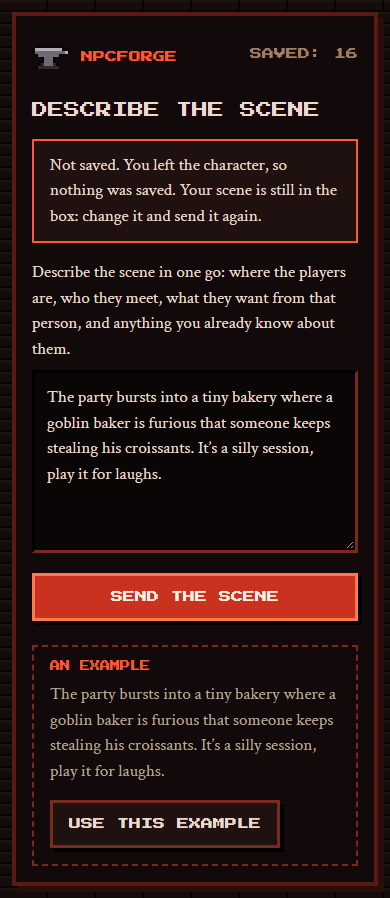
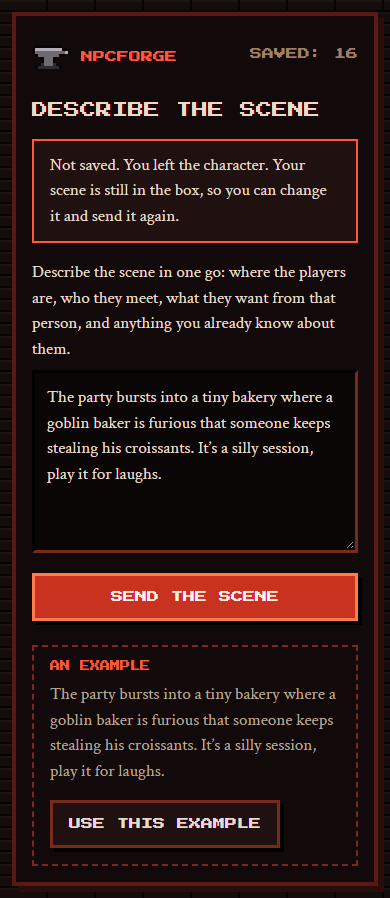
fix(web): the keep actions no longer half-follow the scroll, and plainer notices (epic 12, PR 3)
The side column is taller than the window, so `position: sticky` held
SAVE in view for the first half of the sheet only. The actions now stay
at the top of the side column. A brief that scrolls inside a sticky
column fails the contrast check, so that was not an option.

Changed region(s): [[0.1231, 0.1559, 0.8615, 0.2494]]

diff --git a/NpcForge.Web/src/Sheet.tsx b/NpcForge.Web/src/Sheet.tsx
@@ -7,7 +7,9 @@ import type { BriefEntry } from './api';
 // model's prose"; ADR-017 decision 4). The name comes from `name`, never from the text.
 //
 // `actions`, on the forge page, sit at the top of the side column above the brief: under the sheet
-// on a phone, and in view beside it at desktop width while the sheet scrolls.
+// on a phone, and beside the sheet's first lines at desktop width. They do not follow the scroll.
+// A side column taller than the window sticks for half the sheet only, and a brief that scrolls
+// inside it fails the contrast check, which cannot judge text a scroll box clips (lesson 019).
 export function Sheet({
   name,
   brief,
@@ -27,7 +29,7 @@ export function Sheet({
           <Markdown>{sheet}</Markdown>
         </section>
       </div>
-      <div className={actions ? 'side side-actions' : 'side'}>
+      <div className="side">
         {actions}
         <aside className="brief" aria-label="Brief">
           <h2>BRIEF</h2>

diff --git a/NpcForge.Web/src/SceneForm.tsx b/NpcForge.Web/src/SceneForm.tsx
@@ -35,14 +35,14 @@ export function SceneForm({
       <h1 className="page-title">DESCRIBE THE SCENE</h1>
       {after === 'turned-down' && (
         <p className="notice">
-          Not rolled. You turned the brief down, so nothing was rolled. Your scene is still in the box:
-          change it and send it again.
+          Not rolled. You turned the brief down. Your scene is still in the box, so you can change it
+          and send it again.
         </p>
       )}
       {after === 'left' && (
         <p className="notice">
-          Not saved. You left the character, so nothing was saved. Your scene is still in the box:
-          change it and send it again.
+          Not saved. You left the character. Your scene is still in the box, so you can change it and
+          send it again.
         </p>
       )}
       <label className="instruction" htmlFor="scene">

diff --git a/NpcForge.Web/src/app.css b/NpcForge.Web/src/app.css
@@ -565,12 +565,4 @@ form > .button {
   .forge-art {
     width: 352px;
   }
-  /* The side column stays in view while the sheet scrolls, so a GM can roll again without
-     scrolling back. It sticks as one block, so nothing sticky ever sits over text. Its brief does
-     not scroll inside it: axe cannot judge text clipped by a scroll box, so the end of a long brief
-     comes into view with the end of the sheet. */
-  .side-actions {
-    position: sticky;
-    top: 0.75rem;
-  }
 }
